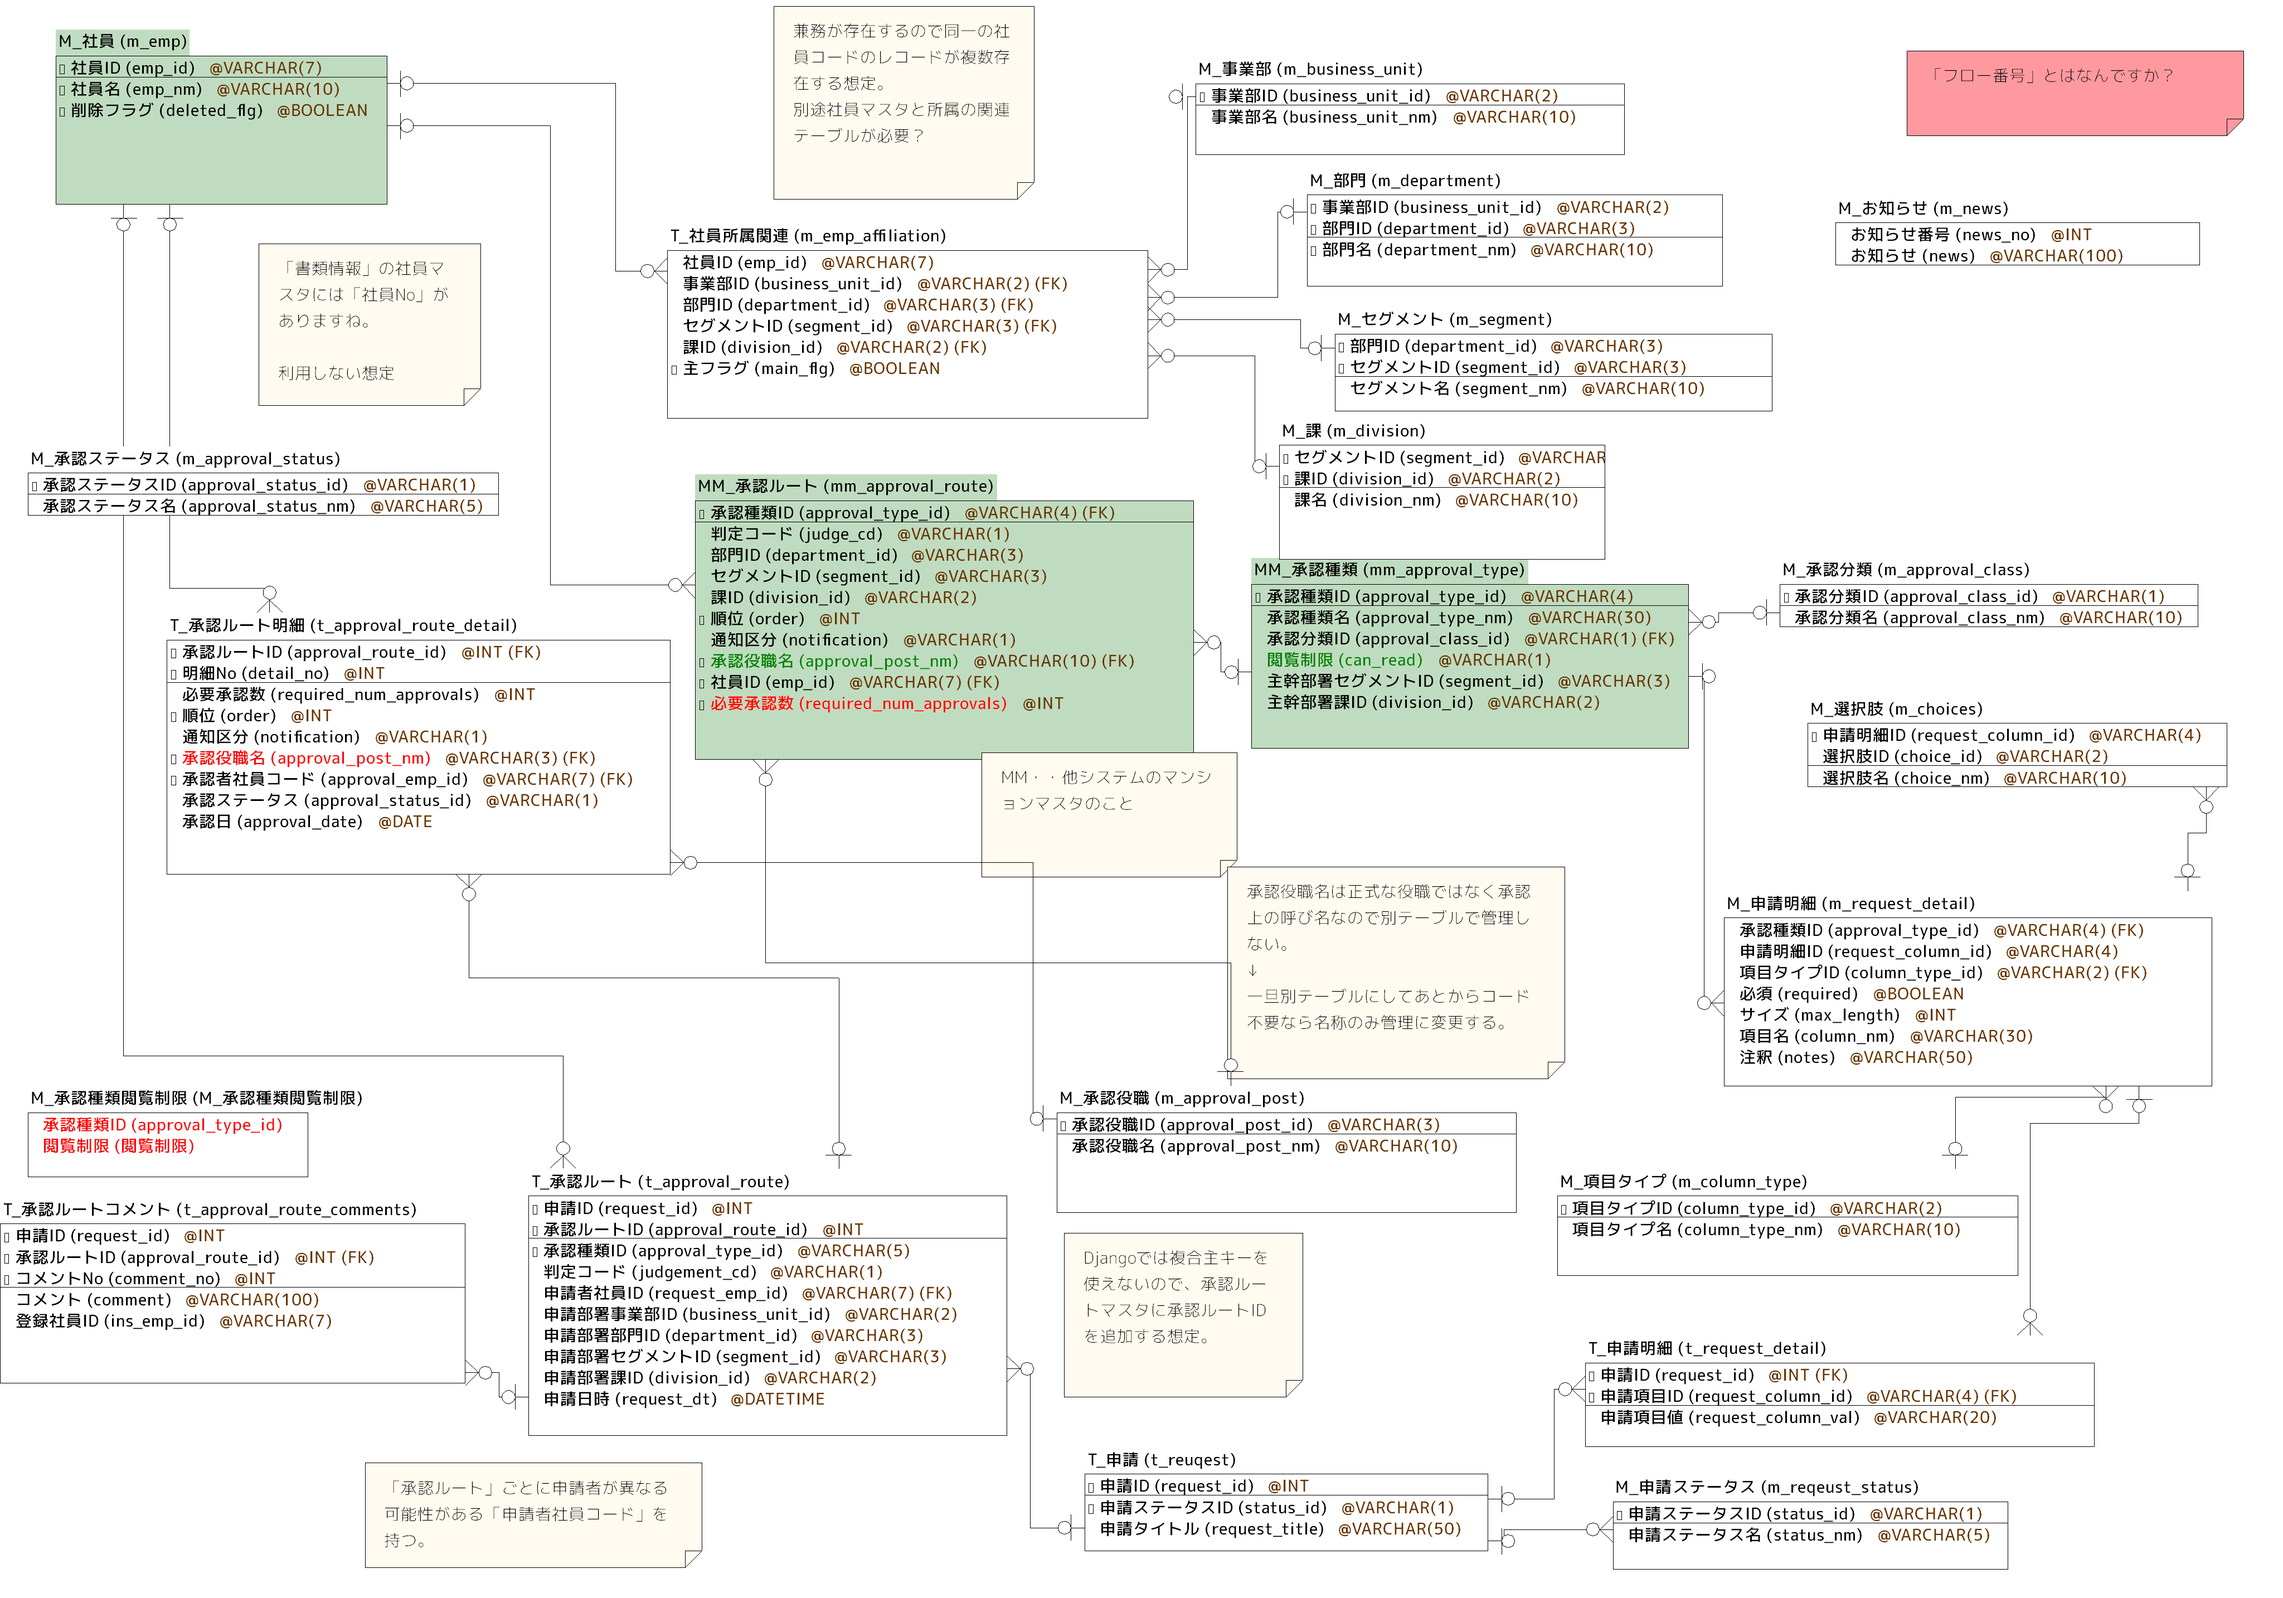
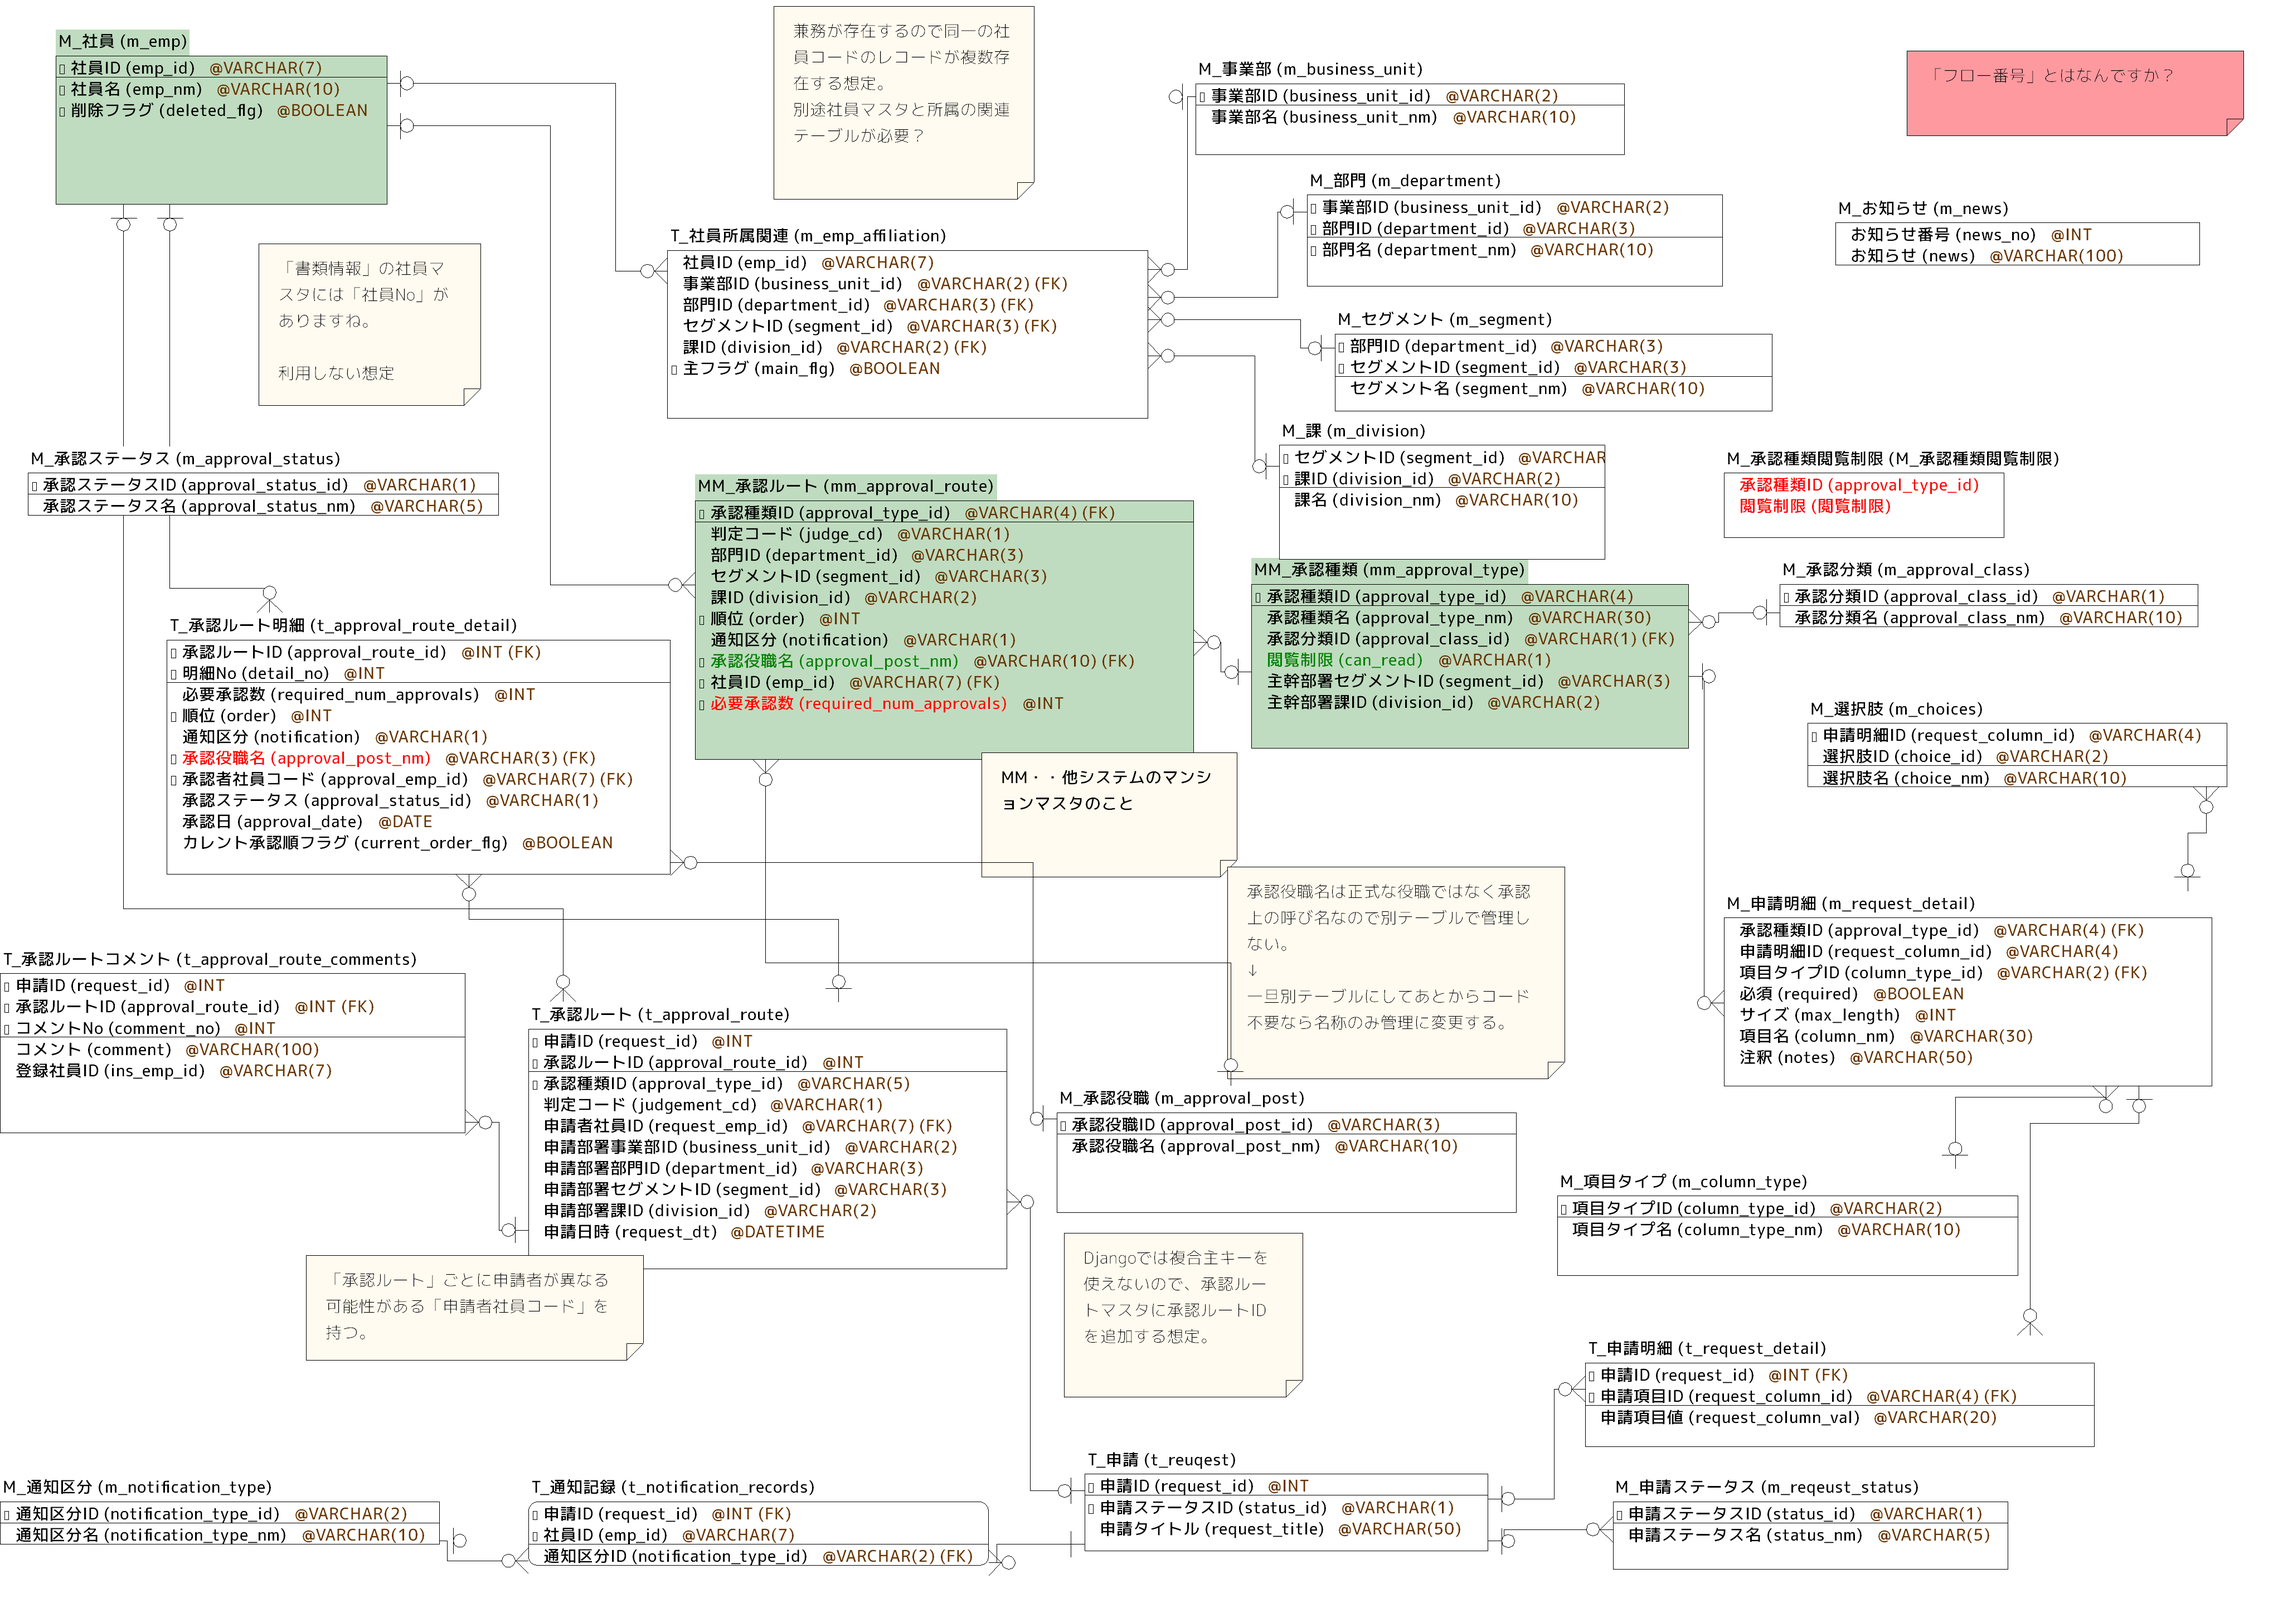
シナリオ作成 承認者関連件数表示

diff --git a/docs/設計資料/02_テーブル/entity_list/index.html b/docs/設計資料/02_テーブル/entity_list/index.html
@@ -139,62 +139,76 @@
 			</tr>
 			<tr>
 				<td style="text-align:right;">14</td>
+				<td>M_通知区分</td>
+				<td><a href="entities\m_notification_type.html">m_notification_type</a></td>
+				<td></td>
+				<td></td>
+			</tr>
+			<tr>
+				<td style="text-align:right;">15</td>
 				<td>M_申請ステータス</td>
 				<td><a href="entities\m_reqeust_status.html">m_reqeust_status</a></td>
 				<td></td>
 				<td></td>
 			</tr>
 			<tr>
-				<td style="text-align:right;">15</td>
+				<td style="text-align:right;">16</td>
 				<td>M_申請明細</td>
 				<td><a href="entities\m_request_detail.html">m_request_detail</a></td>
 				<td></td>
 				<td></td>
 			</tr>
 			<tr>
-				<td style="text-align:right;">16</td>
+				<td style="text-align:right;">17</td>
 				<td>M_セグメント</td>
 				<td><a href="entities\m_segment.html">m_segment</a></td>
 				<td></td>
 				<td></td>
 			</tr>
 			<tr>
-				<td style="text-align:right;">17</td>
+				<td style="text-align:right;">18</td>
 				<td>M_承認種類閲覧制限</td>
 				<td><a href="entities\M_承認種類閲覧制限.html">M_承認種類閲覧制限</a></td>
 				<td></td>
 				<td></td>
 			</tr>
 			<tr>
-				<td style="text-align:right;">18</td>
+				<td style="text-align:right;">19</td>
 				<td>T_承認ルート</td>
 				<td><a href="entities\t_approval_route.html">t_approval_route</a></td>
 				<td></td>
 				<td></td>
 			</tr>
 			<tr>
-				<td style="text-align:right;">19</td>
+				<td style="text-align:right;">20</td>
 				<td>T_承認ルートコメント</td>
 				<td><a href="entities\t_approval_route_comments.html">t_approval_route_comments</a></td>
 				<td></td>
 				<td></td>
 			</tr>
 			<tr>
-				<td style="text-align:right;">20</td>
+				<td style="text-align:right;">21</td>
 				<td>T_承認ルート明細</td>
 				<td><a href="entities\t_approval_route_detail.html">t_approval_route_detail</a></td>
 				<td></td>
 				<td></td>
 			</tr>
 			<tr>
-				<td style="text-align:right;">21</td>
+				<td style="text-align:right;">22</td>
+				<td>T_通知記録</td>
+				<td><a href="entities\t_notification_records.html">t_notification_records</a></td>
+				<td></td>
+				<td></td>
+			</tr>
+			<tr>
+				<td style="text-align:right;">23</td>
 				<td>T_申請明細</td>
 				<td><a href="entities\t_request_detail.html">t_request_detail</a></td>
 				<td></td>
 				<td></td>
 			</tr>
 			<tr>
-				<td style="text-align:right;">22</td>
+				<td style="text-align:right;">24</td>
 				<td>T_申請</td>
 				<td><a href="entities\t_reuqest.html">t_reuqest</a></td>
 				<td></td>

diff --git a/docs/設計資料/02_テーブル/entity_list/entities/t_notification_records.html b/docs/設計資料/02_テーブル/entity_list/entities/t_notification_records.html
@@ -33,13 +33,13 @@
 		</tr>
 		<tr>
 			<th>論理エンティティ名</th>
-			<td>M_承認役職&nbsp;</td>
+			<td>T_通知記録&nbsp;</td>
 			<th>タグ&nbsp;</th>
 			<td>&nbsp;</td>
 		</tr>
 		<tr>
 			<th>物理エンティティ名</th>
-			<td>m_approval_post&nbsp;</td>
+			<td>t_notification_records&nbsp;</td>
 			<th>&nbsp;</th>
 			<td>&nbsp;</td>
 		</tr>
@@ -72,18 +72,27 @@
 		</tr>
 		<tr>
 			<td style="text-align:right;">1</td>
-			<td>承認役職ID</td>
-			<td>approval_post_id</td>
-			<td>@VARCHAR(3)</td>
+			<td>申請ID</td>
+			<td>request_id</td>
+			<td>@INT</td>
 			<td>Yes (PK)</td>
 			<td></td>
 			<td></td>
 		</tr>
 		<tr>
 			<td style="text-align:right;">2</td>
-			<td>承認役職名</td>
-			<td>approval_post_nm</td>
-			<td>@VARCHAR(10)</td>
+			<td>社員ID</td>
+			<td>emp_id</td>
+			<td>@VARCHAR(7)</td>
+			<td>Yes (PK)</td>
+			<td></td>
+			<td></td>
+		</tr>
+		<tr>
+			<td style="text-align:right;">3</td>
+			<td>通知区分ID</td>
+			<td>notification_type_id</td>
+			<td>@VARCHAR(2)</td>
 			<td>&nbsp;</td>
 			<td></td>
 			<td></td>
@@ -127,6 +136,20 @@
 			<th>参照先</th>
 			<th>参照先カラムリスト</th>
 		</tr>
+		<tr>
+			<td style="text-align:right;">1</td>
+			<td></td>
+			<td>request_id</td>
+			<td>t_reuqest</td>
+			<td>request_id</td>
+		</tr>
+		<tr>
+			<td style="text-align:right;">2</td>
+			<td></td>
+			<td>notification_type_id</td>
+			<td>m_notification_type</td>
+			<td>notification_type_id</td>
+		</tr>
 	</table>
 
 <br>
@@ -146,20 +169,6 @@
 			<th>カラムリスト</th>
 			<th>参照元</th>
 			<th>参照元カラムリスト</th>
-		</tr>
-		<tr>
-			<td style="text-align:right;">1</td>
-			<td></td>
-			<td>approval_post_id</td>
-			<td>mm_approval_route</td>
-			<td>approval_post_nm</td>
-		</tr>
-		<tr>
-			<td style="text-align:right;">2</td>
-			<td></td>
-			<td>approval_post_id</td>
-			<td>t_approval_route_detail</td>
-			<td>approval_post_nm</td>
 		</tr>
 	</table>
 

diff --git a/docs/設計資料/02_テーブル/entity_list/entities/m_notification_type.html b/docs/設計資料/02_テーブル/entity_list/entities/m_notification_type.html
@@ -33,13 +33,13 @@
 		</tr>
 		<tr>
 			<th>論理エンティティ名</th>
-			<td>M_承認役職&nbsp;</td>
+			<td>M_通知区分&nbsp;</td>
 			<th>タグ&nbsp;</th>
 			<td>&nbsp;</td>
 		</tr>
 		<tr>
 			<th>物理エンティティ名</th>
-			<td>m_approval_post&nbsp;</td>
+			<td>m_notification_type&nbsp;</td>
 			<th>&nbsp;</th>
 			<td>&nbsp;</td>
 		</tr>
@@ -72,17 +72,17 @@
 		</tr>
 		<tr>
 			<td style="text-align:right;">1</td>
-			<td>承認役職ID</td>
-			<td>approval_post_id</td>
-			<td>@VARCHAR(3)</td>
+			<td>通知区分ID</td>
+			<td>notification_type_id</td>
+			<td>@VARCHAR(2)</td>
 			<td>Yes (PK)</td>
 			<td></td>
 			<td></td>
 		</tr>
 		<tr>
 			<td style="text-align:right;">2</td>
-			<td>承認役職名</td>
-			<td>approval_post_nm</td>
+			<td>通知区分名</td>
+			<td>notification_type_nm</td>
 			<td>@VARCHAR(10)</td>
 			<td>&nbsp;</td>
 			<td></td>
@@ -150,16 +150,9 @@
 		<tr>
 			<td style="text-align:right;">1</td>
 			<td></td>
-			<td>approval_post_id</td>
-			<td>mm_approval_route</td>
-			<td>approval_post_nm</td>
-		</tr>
-		<tr>
-			<td style="text-align:right;">2</td>
-			<td></td>
-			<td>approval_post_id</td>
-			<td>t_approval_route_detail</td>
-			<td>approval_post_nm</td>
+			<td>notification_type_id</td>
+			<td>t_notification_records</td>
+			<td>notification_type_id</td>
 		</tr>
 	</table>
 

diff --git a/docs/設計資料/02_テーブル/entity_list/entities/t_reuqest.html b/docs/設計資料/02_テーブル/entity_list/entities/t_reuqest.html
@@ -23,7 +23,7 @@
 			<th>サブシステム名</th>
 			<td>&nbsp;</td>
 			<th>作成日</th>
-			<td>2021/10/27&nbsp;</td>
+			<td>2021/11/01&nbsp;</td>
 		</tr>
 		<tr>
 			<th>スキーマ名</th>
@@ -160,18 +160,25 @@
 			<td style="text-align:right;">1</td>
 			<td></td>
 			<td>request_id</td>
+			<td>t_notification_records</td>
+			<td>request_id</td>
+		</tr>
+		<tr>
+			<td style="text-align:right;">2</td>
+			<td></td>
+			<td>request_id</td>
 			<td>m_reqeust_status</td>
 			<td></td>
 		</tr>
 		<tr>
-			<td style="text-align:right;">2</td>
+			<td style="text-align:right;">3</td>
 			<td></td>
 			<td>request_id</td>
 			<td>t_request_detail</td>
 			<td>request_id</td>
 		</tr>
 		<tr>
-			<td style="text-align:right;">3</td>
+			<td style="text-align:right;">4</td>
 			<td></td>
 			<td></td>
 			<td>t_approval_route</td>

diff --git a/docs/設計資料/02_テーブル/entity_list/entities/t_approval_route_detail.html b/docs/設計資料/02_テーブル/entity_list/entities/t_approval_route_detail.html
@@ -23,7 +23,7 @@
 			<th>サブシステム名</th>
 			<td>&nbsp;</td>
 			<th>作成日</th>
-			<td>2021/10/27&nbsp;</td>
+			<td>2021/11/01&nbsp;</td>
 		</tr>
 		<tr>
 			<th>スキーマ名</th>
@@ -147,6 +147,15 @@
 			<td>承認日</td>
 			<td>approval_date</td>
 			<td>@DATE</td>
+			<td>&nbsp;</td>
+			<td></td>
+			<td></td>
+		</tr>
+		<tr>
+			<td style="text-align:right;">10</td>
+			<td>カレント承認順フラグ</td>
+			<td>current_order_flg</td>
+			<td>@BOOLEAN</td>
 			<td>&nbsp;</td>
 			<td></td>
 			<td></td>

diff --git a/docs/設計資料/02_テーブル/entity_list/entities/M_承認種類閲覧制限.html b/docs/設計資料/02_テーブル/entity_list/entities/M_承認種類閲覧制限.html
@@ -23,7 +23,7 @@
 			<th>サブシステム名</th>
 			<td>&nbsp;</td>
 			<th>作成日</th>
-			<td>2021/10/27&nbsp;</td>
+			<td>2021/11/01&nbsp;</td>
 		</tr>
 		<tr>
 			<th>スキーマ名</th>

diff --git a/docs/設計資料/02_テーブル/entity_list/entities/m_approval_class.html b/docs/設計資料/02_テーブル/entity_list/entities/m_approval_class.html
@@ -23,7 +23,7 @@
 			<th>サブシステム名</th>
 			<td>&nbsp;</td>
 			<th>作成日</th>
-			<td>2021/10/27&nbsp;</td>
+			<td>2021/11/01&nbsp;</td>
 		</tr>
 		<tr>
 			<th>スキーマ名</th>

diff --git a/docs/設計資料/02_テーブル/entity_list/entities/m_approval_status.html b/docs/設計資料/02_テーブル/entity_list/entities/m_approval_status.html
@@ -23,7 +23,7 @@
 			<th>サブシステム名</th>
 			<td>&nbsp;</td>
 			<th>作成日</th>
-			<td>2021/10/27&nbsp;</td>
+			<td>2021/11/01&nbsp;</td>
 		</tr>
 		<tr>
 			<th>スキーマ名</th>

diff --git a/docs/設計資料/02_テーブル/entity_list/entities/m_business_unit.html b/docs/設計資料/02_テーブル/entity_list/entities/m_business_unit.html
@@ -23,7 +23,7 @@
 			<th>サブシステム名</th>
 			<td>&nbsp;</td>
 			<th>作成日</th>
-			<td>2021/10/27&nbsp;</td>
+			<td>2021/11/01&nbsp;</td>
 		</tr>
 		<tr>
 			<th>スキーマ名</th>

diff --git a/docs/設計資料/02_テーブル/entity_list/entities/m_choices.html b/docs/設計資料/02_テーブル/entity_list/entities/m_choices.html
@@ -23,7 +23,7 @@
 			<th>サブシステム名</th>
 			<td>&nbsp;</td>
 			<th>作成日</th>
-			<td>2021/10/27&nbsp;</td>
+			<td>2021/11/01&nbsp;</td>
 		</tr>
 		<tr>
 			<th>スキーマ名</th>

diff --git a/docs/設計資料/02_テーブル/entity_list/entities/m_column_type.html b/docs/設計資料/02_テーブル/entity_list/entities/m_column_type.html
@@ -23,7 +23,7 @@
 			<th>サブシステム名</th>
 			<td>&nbsp;</td>
 			<th>作成日</th>
-			<td>2021/10/27&nbsp;</td>
+			<td>2021/11/01&nbsp;</td>
 		</tr>
 		<tr>
 			<th>スキーマ名</th>

diff --git a/docs/設計資料/02_テーブル/entity_list/entities/m_department.html b/docs/設計資料/02_テーブル/entity_list/entities/m_department.html
@@ -23,7 +23,7 @@
 			<th>サブシステム名</th>
 			<td>&nbsp;</td>
 			<th>作成日</th>
-			<td>2021/10/27&nbsp;</td>
+			<td>2021/11/01&nbsp;</td>
 		</tr>
 		<tr>
 			<th>スキーマ名</th>
